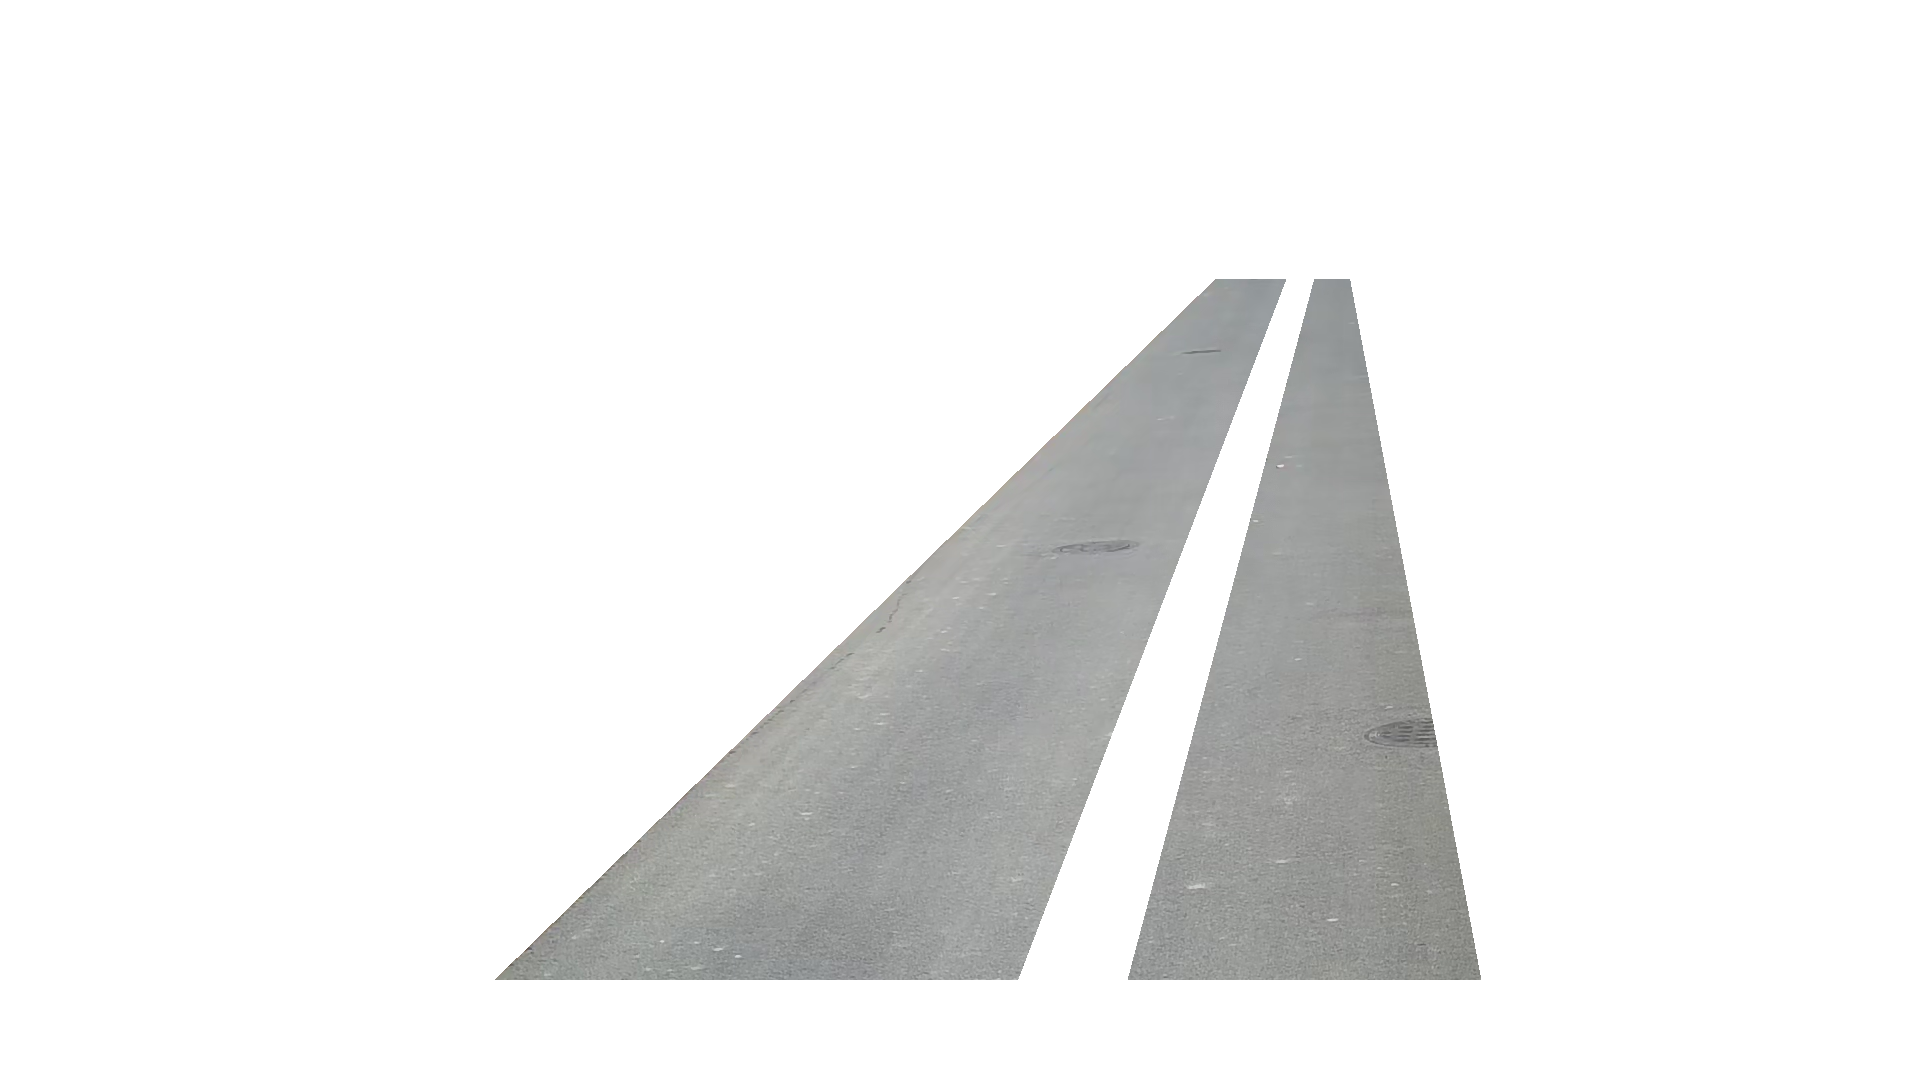
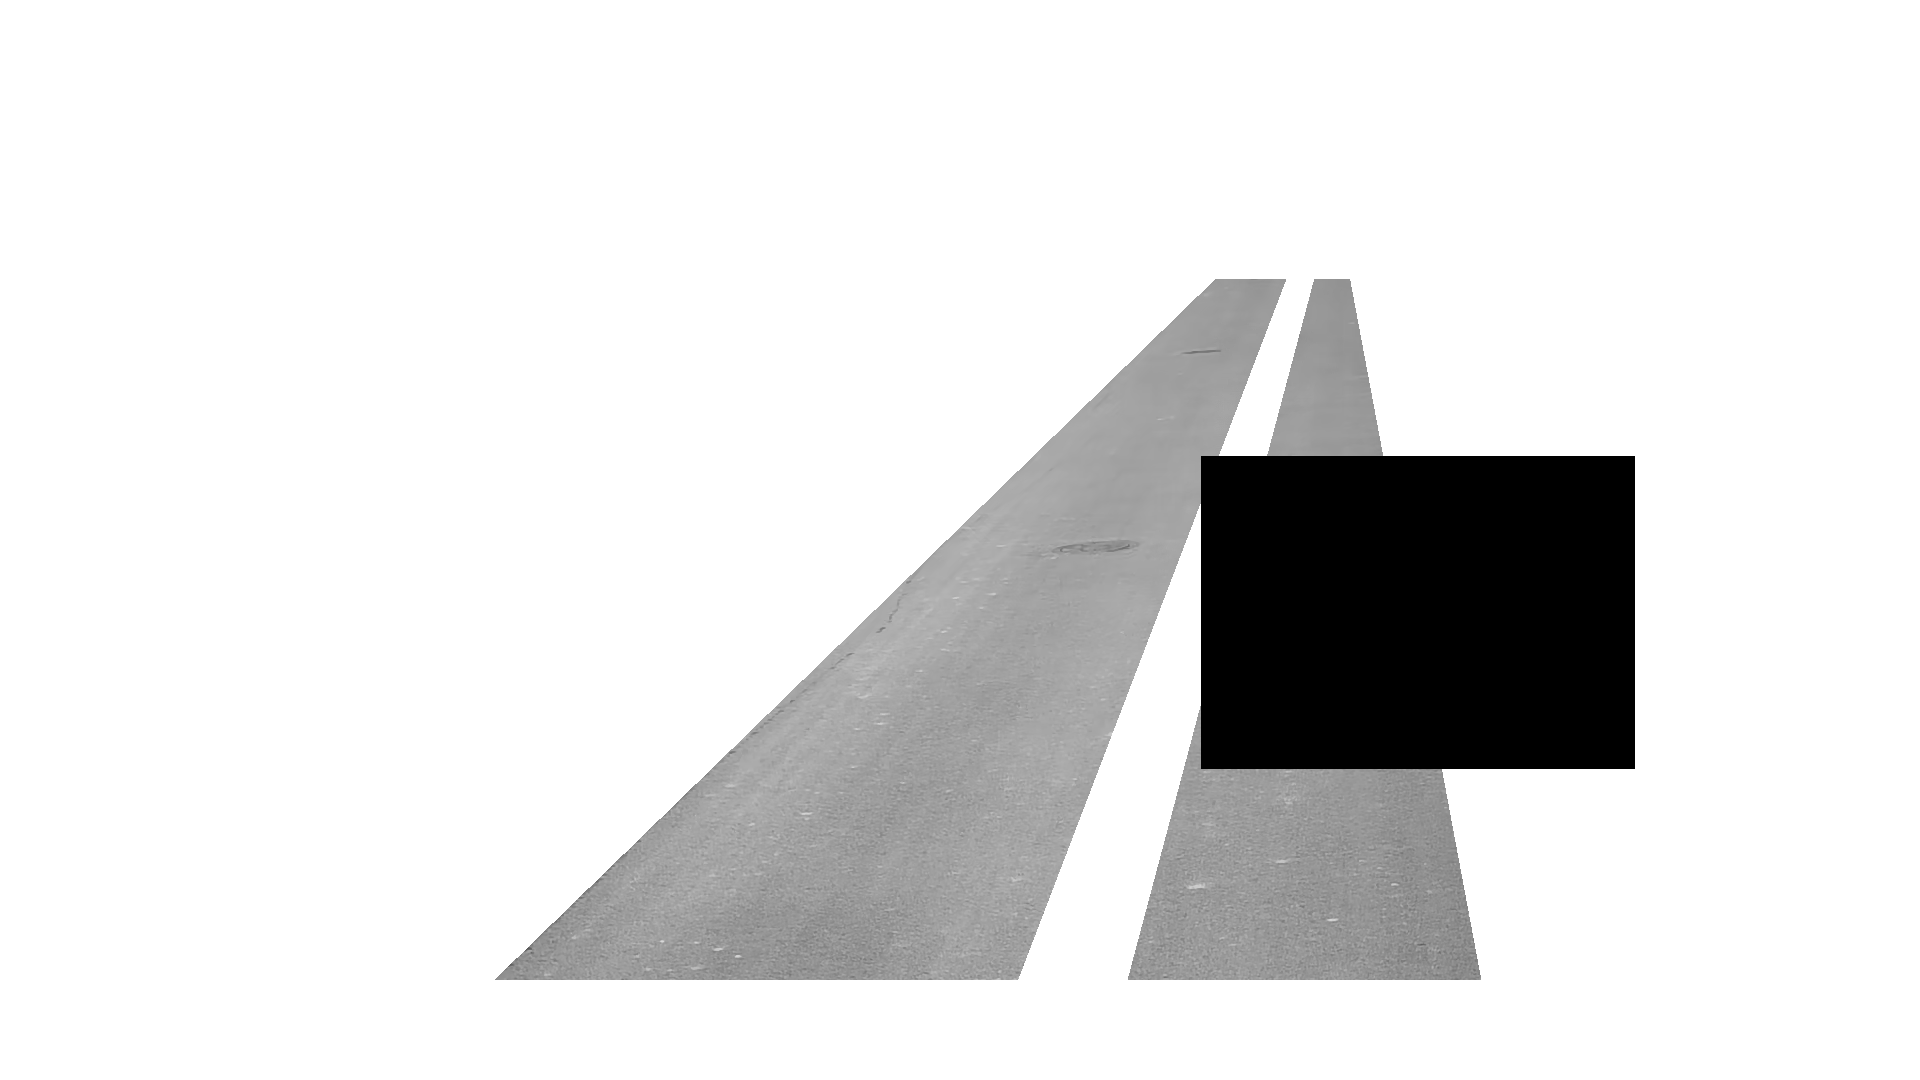
9_28_sonny

Changed region(s): [[0.625, 0.3972, 0.875, 0.7333]]

diff --git a/2023_9_12_paosawu.py b/2023_9_12_paosawu.py
@@ -1,0 +1,174 @@
+import cv2
+from datetime import datetime
+import numpy as np
+
+
+
+def icc_pic(img_gray, template_gray, x, y, img, num):
+
+    # 计算匹配结果矩阵
+    res = cv2.matchTemplate(img_gray, template_gray, cv2.TM_SQDIFF_NORMED)
+    # 获取匹配结果的最大值和最小值
+    min_val, max_val, min_loc, max_loc = cv2.minMaxLoc(res)
+    #(min_val, max_val, min_loc, max_loc)
+    # 在大图像上绘制矩形框标记匹配位置
+    top_left = max_loc
+    # print(max_val/255)
+    threshold = 10
+    format_string = "{:.4f}"
+    text = "%d"%(max_val*1000)
+    val = int(text)
+    # list_result.append(max_val)
+    paosa_data = {}
+    # print(list_result)
+    if val > threshold:
+        # print("匹配")
+        # threshold = 0.6
+    #  similarity[top_left > threshold] = 1
+        # similarity[top_left <= threshold] = 0
+        bottom_right = (x + template_gray.shape[1], y + template_gray.shape[0])
+        cv2.putText(img, text, (x +10, y +10), cv2.FONT_HERSHEY_SIMPLEX, 0.2, (255), 1)
+        cv2.rectangle(img, (x,y), bottom_right, (0,0,255), 2)
+        num += 1
+    return num, img
+
+def pic_fillpoly(img):
+    black_image = np.zeros_like(img) #返回一个跟img相同shape的0矩阵
+    pts = np.array([[0, 1080], [390, 1080], [1215,278], [1350, 278], [1500, 1080], [1920, 1080], [1920, 0], [0, 0]])# 圈起来的剩下地方为要使用的地方
+    pts3 = np.array([[0, 1080], [1920, 1080], [1920, 980], [0, 980]])# 圈起来的剩下地方为要使用的地方，圈起来的地方为单色，白色或黑色
+    pts2 = np.array([[980,1080], [1100, 1080], [1340,178],[1325,178]])# 圈起来的剩下地方为要使用的地方，圈起来的地方为单色，白色或黑色
+    
+    # cv2.fillPoly(black_image, [pts], (255, 255, 255))
+    # cv2.fillPoly(black_image, [pts2], (255, 255, 255))
+    # cv2.fillPoly(black_image, [pts3], (255, 255, 255))
+    
+    cv2.fillPoly(black_image, [pts], (255))
+    cv2.fillPoly(black_image, [pts2], (255))
+    cv2.fillPoly(black_image, [pts3], (255))
+    result = cv2.addWeighted(img, 1, black_image, 1, 0)# 把2张图像按照系数相加
+    # cv2.fillPoly(img, [pts1], (0), 8, 0)
+    return result
+
+
+def two_pic_compare(gray1, gray1_after, img2, n_blocks_h, n_blocks_w, win_size):
+    
+    gray2 = cv2.cvtColor(img2, cv2.COLOR_BGR2GRAY)
+    # 定义仿射变换矩阵
+    warp_mode = cv2.MOTION_TRANSLATION
+    warp_matrix = np.eye(2, 3, dtype=np.float32)
+
+    # 寻找最佳的仿射变换矩阵
+    criteria = (cv2.TERM_CRITERIA_EPS | cv2.TERM_CRITERIA_COUNT, 5000,  1e-10)
+    print("paosawu is running")
+    # try:
+    if True:
+        cc, warp_matrix = cv2.findTransformECC(gray1, gray2, warp_matrix, warp_mode, criteria)
+        num = 0
+        # 对图像进行仿射变换
+        # rows, cols, _ = img2.shape# 彩色图像通道
+        rows, cols = gray2.shape[:2]
+        # img_aligned = cv2.warpAffine(img2, warp_matrix, (cols, rows), flags=cv2.INTER_LINEAR + cv2.WARP_INVERSE_MAP)
+        img_aligned = cv2.warpAffine(gray2, warp_matrix, (cols, rows),  flags=cv2.INTER_LINEAR + cv2.WARP_INVERSE_MAP)#灰度图
+        img_aligned = pic_fillpoly(img_aligned)
+        ids = [((1570, 683), (1733, 1080)), ((1329, 187), (1345, 219)), ((1, 584), (326, 843)), ((1298, 328), (1466, 475))]
+        print(ids)
+        if ids:
+            for i in range(len(ids)):
+                point1 = (int((ids[i][0][0])*(0.9)), int((ids[i][0][1])*(0.9)))
+                point2 = (int((ids[i][1][0])*(1.1)), int((ids[i][1][1])*(1.1)))
+                
+                cv2.rectangle(gray1_after,point1,point2,1,-1)
+                cv2.rectangle(img_aligned,point1,point2,1,-1)
+        # cv2.imwrite("img_aligned.png", img_aligned)
+        # point1 = (100,200)
+        # point2 = (200,300)
+        # cv2.rectangle(gray1_after,point1,point2,0,-1)
+        # cv2.rectangle(img_aligned,point1,point2,0,-1)
+        cv2.imwrite("gray1_after.png", gray1_after)
+        cv2.imwrite("img_aligned.png", img_aligned)
+        img3 = img2.copy()
+        # paosa_data = {}
+        for i in range(n_blocks_h):
+            for j in range(n_blocks_w):
+                # 计算当前小块的位置
+                x = j * win_size
+                y = i * win_size
+                # 截取小块
+                block1 = gray1_after[y:y+win_size, x:x+win_size]
+                block2 = img_aligned[y:y+win_size, x:x+win_size]
+                # 计算当前小块的相似度
+                num , img3 = icc_pic(block1, block2, x, y, img3, num)
+
+        if True:
+            # paosa_data["paosawu"] = 20
+            # paosa_data["camera"] = "road1"
+            # paosa_data["ip"] = "192.168.1.1"
+            dt_ms = datetime.now().strftime('%Y-%m-%d-%H_%M_%S_%f')# 获取当前时间
+            # paosa_data["send_time"] = dt_ms
+            # client_loss_incident_data(str(paosa_data))
+            # image_path = "/home/digital/digital_twin_django/media/images/"
+            # video_path = "/home/digital/digital_twin_django/media/videos/192_168_9_204/"
+            # paosa_path = image_path + "pic/paosawu/%s.png"%dt_ms
+            name = "警告！！！有抛洒物"
+            print("warning")
+            # img = cv2ImgAddText(img3, name, 1000, 249, textColor=(255,0,0), textsize=50)
+            # img = cv2.resize(img, (960, 640), interpolation=cv2.INTER_LINEAR)
+            
+            cv2.imwrite("haha.png", img3)
+            cv2.imshow("test", img3)
+            # cv2.waitKey(100)
+
+
+    # except:
+    #     # print("warning: ecc did not converge")
+    #     log.warning("warning: ecc did not converge")
+
+
+def Loss_incident_new():
+
+    paosawu_backgroud = "/Users/sonny_he/Desktop/opencv_learning/15432-0003.png"
+    
+    # 背景图
+    img1 = cv2.imread(paosawu_backgroud)
+    gray1 = cv2.cvtColor(img1, cv2.COLOR_BGR2GRAY)
+    # img1 = pic_fillpoly(img1)
+
+    gray1_after = pic_fillpoly(gray1)
+
+    # cv2.imwrite("img1.png", img1)
+    #  cv2.imwrite("img2.png", img_aligned)
+    # 滑动窗口的大小
+    win_size = 30
+    step_size = 20
+    # 计算图像的大小
+    h, w = gray1.shape[0], gray1.shape[1]
+    # h, w, _ = img1.shape
+    # 计算分割成的小块的数量
+    n_blocks_h = h // win_size
+    n_blocks_w = w // win_size
+
+    # 分割图像为小块并计算相似度
+    # similarity = np.zeros((n_blocks_h, n_blocks_w), dtype=np.float32)
+    # while True:
+        # if all_dict_from_url:
+            # id_list = []
+            # for i in range(len(all_dict_from_url["from_url"])): # 当前共有几个id
+            #     id_list.append(all_dict_from_url["from_url"][i]["id"])# 访问字典对象中的值
+            # if post_id in id_list: # 是否在上一秒的id组中
+            #     # print("normal\n\n\n")
+            #     # print("post_id is :", post_id)
+            #     position = id_list.index(post_id)# 计算在当前列表中的序号
+
+            #     if all_dict_from_url["from_url"][position]["enable"]:# 获取当前id的算法运算状态，true或false
+            #         data = False
+                    # while True:
+                        # if "inference_pic" in all_items:# 判断是否有数据
+                            # print(all_items)
+    print("runing")
+    img2_path = "/Users/sonny_he/Desktop/opencv_learning/15432.png"
+    img2 = cv2.imread(img2_path)
+    two_pic_compare(gray1, gray1_after, img2, n_blocks_h, n_blocks_w, win_size)
+
+
+if __name__ == "__main__":
+    Loss_incident_new()

diff --git a/2023_5_5_paosawu.py b/2023_5_5_paosawu.py
@@ -28,6 +28,7 @@ def icc_pic(img_gray, template_gray, x, y, img):
         bottom_right = (x + template_gray.shape[1], y + template_gray.shape[0])
         cv2.putText(img, text, (x +10, y +10), cv2.FONT_HERSHEY_SIMPLEX, 0.2, (255), 1)
         cv2.rectangle(img, (x,y), bottom_right, (0,0,255), 2)
+    return img
 
 def ssim_pic(img1_gray, img2_gray):
 
@@ -123,7 +124,7 @@ for i in range(n_blocks_h):
         block1 = img1[y:y+win_size, x:x+win_size]
         block2 = img_aligned[y:y+win_size, x:x+win_size]
         # 计算当前小块的相似度
-        icc_pic(block1, block2, x, y, img3)
+        img3 = icc_pic(block1, block2, x, y, img3)
 
 cv2.imshow(img3)
 cv2.waitKey(0)
